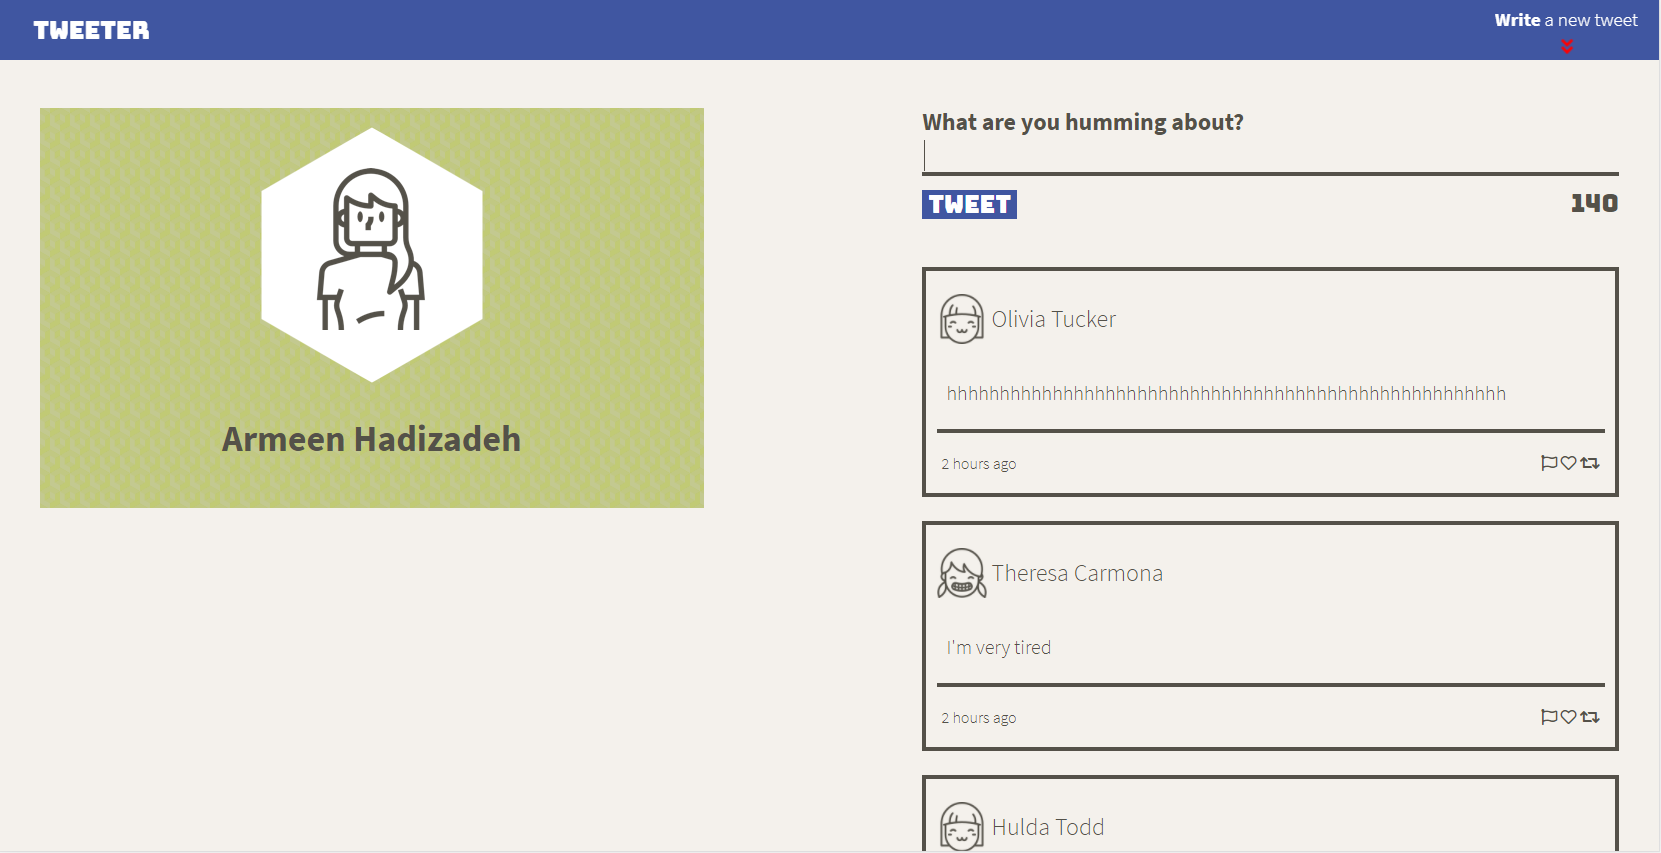
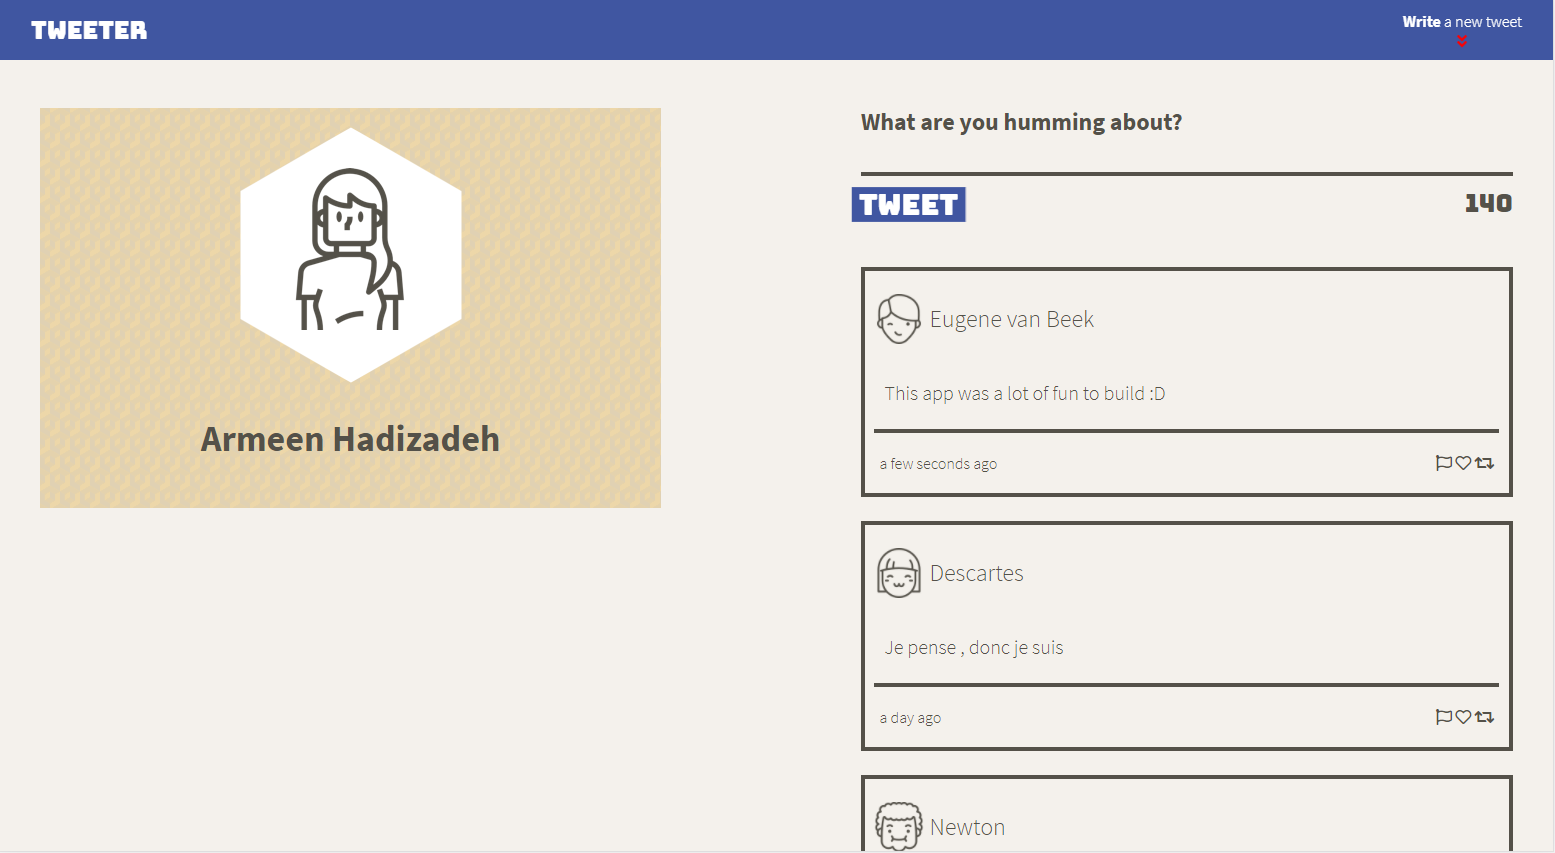
made updates to the readme

diff --git a/README.md b/README.md
@@ -15,3 +15,22 @@ This repository is the starter code for the project: Students will fork and clon
 
 - Express
 - Node 5.10.x or above
+
+## Final Product 
+
+!["Screenshot of Tweeter on Desktops"](https://github.com/arms1997/tweeter/blob/master/docs/desktop-view.PNG?raw=true)
+*Screenshot of Tweeter on a Desktop*
+
+!["Screenshot of Tweeter on Mobile Devices(Iphone X)](https://github.com/arms1997/tweeter/blob/master/docs/iphoneX-view.PNG?raw=true)
+*Screenshot of Tweeter on a Mobile Device(Iphone X)*
+
+## Notes 
+
+- The header background is animated to change colors every few seconds (for awesomeness!)
+- In mobile format the nav bar is intentionally not fixed to the top as that would be counterintuitive for the user 
+- Once scrolling you can use the little arrow button on the bottom right to navigate back to the top of the page
+- You can click on the flag, retweet, or like button of each tweet to change their color to blue
+
+## Contact
+
+- In the situation that you are facing problems starting up the application please contact me at armeen.hadizadeh@gmail.com
